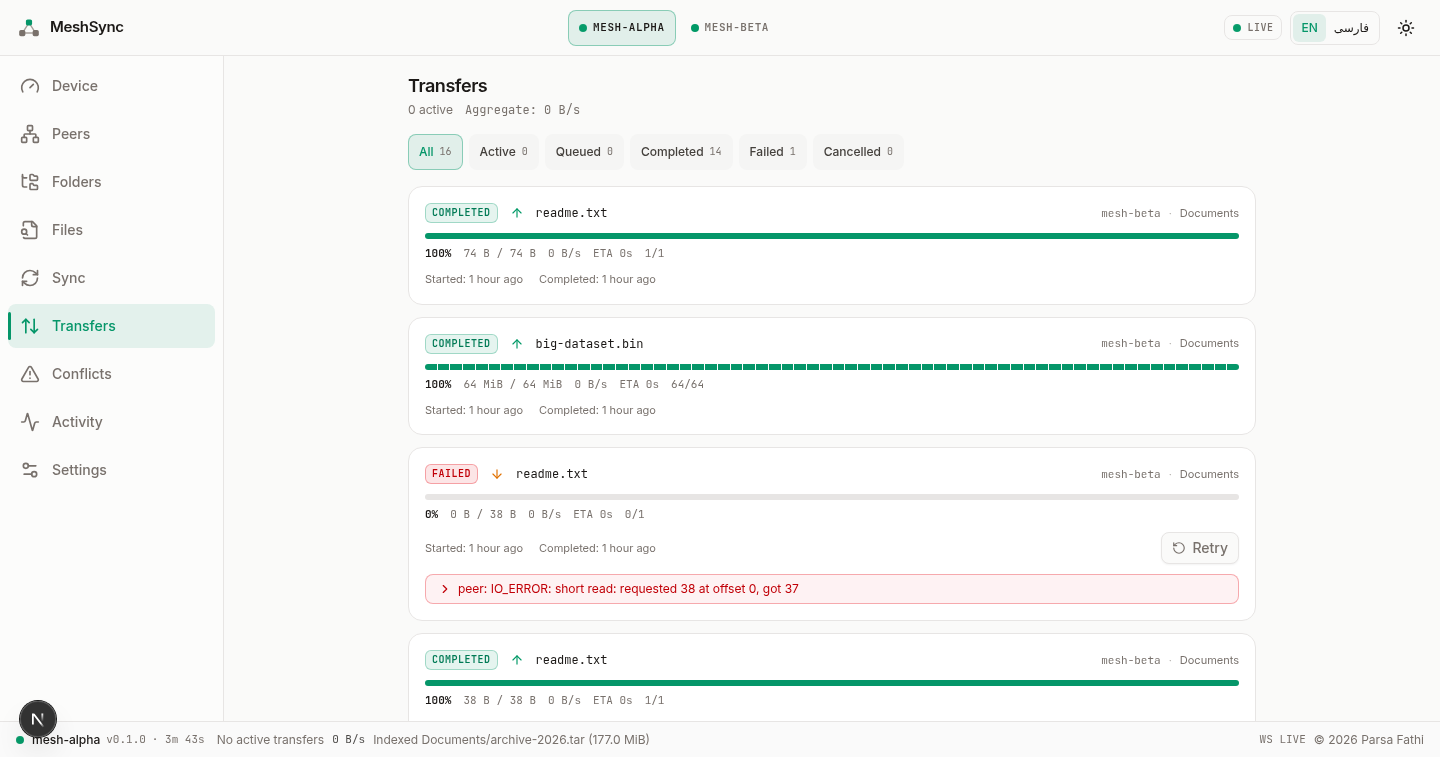
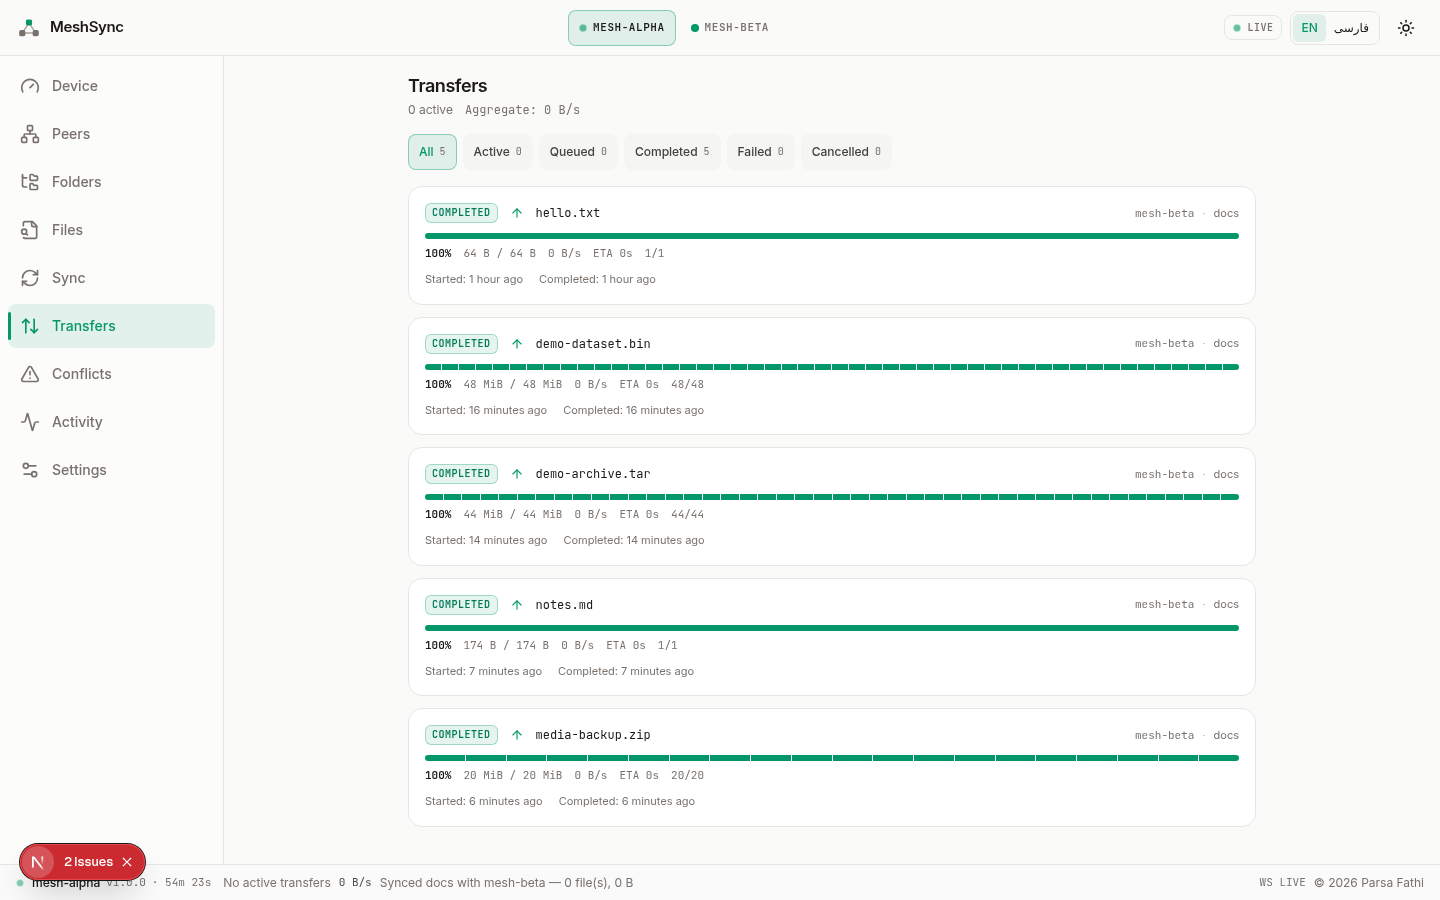
docs+native: demo GIF, refreshed screenshots, missing C++ test suite
Screenshots & demo:
- docs/assets/screens/demo-sync.gif — 46s animated end-to-end demo (plan,
  live chunked transfer with progress + throughput graph, synced state)
  captured from a real two-agent session over the gateway.
- All 12 console screenshots re-captured against the v1.0.0 agents (two
  trusted peers, 5-file folder with 64 B-48 MiB real transfer history, an
  open hello.txt conflict, supervisor respawn after a deliberate kill);
  added 13-settings-en.png. Per-shot descriptions rewritten in the folder
  README. Root README gains an 'At a glance' section embedding the GIF and
  a stills gallery; QUICKSTART embeds the GIF up front.

Native engine:
- tests/test_main.cpp was referenced by the Makefile 'test' target but
  never landed — 'make test' failed with 'No rule to make target'. Added
  the full suite (170 checks): SHA-256 NIST vectors incl. the 1M-'a'
  multi-block case and streaming/reuse, JSON parse/serialize round-trips
  with escapes and rejections, chunker layouts and boundaries, FileReader
  EOF/seek/move semantics, FileHasher whole/range with multi-buffer
  streaming, per-chunk digest equivalence, IntegrityVerifier mismatch and
  case-insensitive comparison, FileScanner tree/symlink/sort behavior,
  and an integration test driving the real worker binary over its
  JSON-lines protocol (happy paths, typed errors, CRLF tolerance,
  clean quit).
- file_scanner.hpp doc aligned with the actual (and tested) behavior:
[…]

diff --git a/native/cpp/include/meshsync/file_scanner.hpp b/native/cpp/include/meshsync/file_scanner.hpp
@@ -1,9 +1,9 @@
 // MeshSync native engine — recursive directory scanner.
 //
-// Walks a directory tree and reports every entry's path (relative to the
-// root), size and mtime in milliseconds since the epoch. Symlinks are
-// reported as such (never followed); unreadable subtrees surface as an
-// error.
+// Walks a directory tree and reports every regular file and directory with
+// its path (relative to the root), size and mtime in milliseconds since the
+// epoch. Symlinks are neither followed nor reported — a sync set never
+// includes an indirect entry; unreadable subtrees surface as an error.
 #pragma once
 
 #include <cstdint>

diff --git a/docs/assets/screens/README.md b/docs/assets/screens/README.md
@@ -1,46 +1,34 @@
-# Web console screenshots
+# Web console screenshots & demo GIF
 
-12 PNG screenshots of the MeshSync web console (v1.0.0), all captured from the
-running application during the live two-agent demo described in the root
-`README.md`: `mesh-alpha` (127.0.0.1:3040/4040) and `mesh-beta`
-(127.0.0.1:3041/4041) as trusted peers with a shared `Documents` folder and a
-real transfer/conflict/event history. Nothing is mocked: every value visible
-in the shots — peer IDs, SHA-256 fingerprints, byte counts, progress, errors —
-comes from the actual agents and the C++ native hashing worker
-(`cpp-worker-1.0.0`, agent v0.1.0 at capture time).
+13 PNG screenshots and one animated GIF of the MeshSync web console (v1.0.0),
+all captured from the running application during a live two-agent session:
+`mesh-alpha` (API 127.0.0.1:3040, peer 4040) and `mesh-beta` (API 3041, peer
+4041) as trusted peers over the real peer protocol, with a shared `docs`
+folder, real transfers (64 B up to 48 MiB), a deliberately created conflict,
+and the C++20 hashing worker active (`cpp-worker-1.0.0`). Nothing is mocked:
+every value visible — peer IDs, SHA-256 hashes, byte counts, percentages,
+speed graphs, errors — comes from the actual agents.
 
-Capture context: console served through the Caddy gateway at
-`http://localhost:81/` (gateway → Next.js console → agent APIs), desktop
-viewport 1440×900 except `10-mobile-fa-rtl.png` at 390×844.
+Capture context: console served through the deployment gateway at
+`http://localhost:81/` (gateway → Next.js console → agent REST/WS APIs),
+desktop viewport 1440×900 except `10-mobile-fa-rtl.png` at 390×844. The
+transfer in `06-transfer-active-en.png` and the GIF ran with a deliberate
+3 000 000 B/s bandwidth cap (visible in `13-settings-en.png`) so progress is
+observable; production default is unlimited.
 
 | File | What it shows |
 | --- | --- |
-| `01-device-en-light.png` | Device workspace, English, light theme — live stats from mesh-alpha including the active C++ native engine (`cpp-worker-1.0.0`), identity, ports (3040/4040) and folder/file/peer counters. |
-| `02-peers-fa-rtl.png` | Peers workspace, Persian, RTL layout — trusted peer mesh-beta (peer ID `ec365de7ff166c54`, agent v0.1.0) with the two-node mesh view and peer detail card. |
-| `03-folders-en-light.png` | Folders workspace, English, light theme — the shared Documents folder as indexed at capture time (7 files, 320 MiB) with its sync state against mesh-beta. |
-| `04-files-en-light.png` | Files workspace, English, light theme — Documents file browser listing the synced files (readme.txt, notes.txt, quarterly-report.txt, demo-from-web.txt, big-dataset.bin at 64 MiB and 100% synced). |
-| `05-sync-plan-en.png` | Sync workspace, English, light theme — a computed sync plan for Documents with PUSH actions against mesh-beta (e.g. archive-2026.tar, 256 MiB) before execution. |
-| `06-transfer-active-en.png` | Transfers workspace, English, light theme — two concurrent live transfers with real in-flight progress (e.g. video-archive.tar at 36 MiB / 512 MiB, ~2.5 MiB/s). |
-| `07-transfers-history-en.png` | Transfers workspace, English, light theme — completed transfer history at 100% progress (readme.txt 74 B through video-archive.tar 512 MiB, 512/512 chunks) plus the FAILED readme.txt row with its peer I/O error. |
-| `08-conflict-open-en.png` | Conflicts workspace, English, light theme — Resolved history expanded; quarterly-report.txt selected, showing both versions (local 58 B / remote 74 B, 16 B difference), truncated SHA-256 hashes, the four resolution options, and the KEEP_LOCAL resolution that was applied. |
-| `09-activity-fa.png` | Activity workspace, Persian, RTL layout — the live event stream (pairing, trust, transfer and sync events for files such as archive-2026.tar). |
-| `10-mobile-fa-rtl.png` | Mobile viewport (390×844), Persian, RTL — Folders workspace on the mesh-beta agent with the "افزودن پوشه اشتراکی" (add shared folder) action, showing the responsive layout. |
+| `demo-sync.gif` | 46-second animated end-to-end demo: a 44 MiB `demo-archive.tar` is created on mesh-alpha, shows as `PENDING` in Files; the Sync workspace computes the plan (1 PUSH, 2 UNCHANGED); Execute plan starts the transfer; the Transfers workspace shows the live progress bar and throughput graph climbing 34% → 79% → 100%; back in Files everything is `SYNCED`. |
+| `01-device-en-light.png` | Device workspace, English, light theme — mesh-alpha identity (v1.0.0, linux/amd64, API 3040 · PEER 4040, native engine `cpp-worker-1.0.0`) and live stats: 1 shared folder, 5 files, 112 MiB indexed, 1 trusted peer online, 1 open conflict, last sync minutes ago. Status pill: LIVE. |
+| `02-peers-fa-rtl.png` | Peers workspace, Persian, RTL layout — the two-node mesh view (mesh-alpha + mesh-beta) and the trusted-peer card for mesh-beta (TRUSTED, online, v1.0.0) with actions (revoke, copy address, remove). |
+| `03-folders-en-light.png` | Folders workspace, English, light theme — the shared `docs` folder (4 files, 92 MiB at capture time) with its index state and rescan action. |
+| `04-files-en-light.png` | Files workspace, English, light theme — the file browser for `docs` with `notes.md` selected (174 B, PENDING/LOCAL_ONLY): detail panel shows the truncated SHA-256 content hash and the 1/1 chunk map computed by the native worker. |
+| `05-sync-plan-en.png` | Sync workspace, English, light theme — a computed plan against mesh-beta for `docs`: summary TOTAL 4 · PUSH 1 · CONFLICT 1 · UNCHANGED 2, with the action table (notes.md → PUSH, hello.txt → CONFLICT) and the session history of previous completed syncs. |
+| `06-transfer-active-en.png` | Transfers workspace, English, light theme — an in-flight transfer: `media-backup.zip` at 85% with progress bar, live speed graph, and the four previously completed transfers below. Status pill: LIVE. |
+| `07-transfers-history-en.png` | Transfers workspace, English, light theme — completed history, 5 transfers at 100%: hello.txt (64 B), demo-dataset.bin (48 MiB), demo-archive.tar (44 MiB), notes.md, media-backup.zip — each with peer, direction, timing and chunk counts. |
+| `08-conflict-open-en.png` | Conflicts workspace, English, light theme — an open conflict on `hello.txt` (edited on both agents at once): local 71 B vs remote 79 B (8 B difference), truncated SHA-256 for both sides, and the resolution options. |
+| `09-activity-fa.png` | Activity workspace, Persian, RTL layout — the live event stream over WebSocket: pairing/trust events, transfer progress (media-backup.zip at 99%) and sync-session events, newest first. |
+| `10-mobile-fa-rtl.png` | Mobile viewport (390×844), Persian, RTL — the Folders workspace on a phone-width layout: `docs` with 5 files / 112 MiB, workspace navigation collapsed into the top area. |
 | `11-device-dark-en.png` | Device workspace, English, dark theme — the same mesh-alpha identity and live-stat view in dark mode. |
-| `12-error-recovery-en.png` | Device workspace, English — the reconnect banner ("Agent unreachable at port 3041 — reconnecting") with the mesh-beta agent tab greyed out, captured while mesh-beta was deliberately stopped to demonstrate self-healing. |
-
-Notes:
-
-- `06-transfer-active-en.png` was captured mid-sync with two transfers running
-  simultaneously; the progress and throughput numbers are real measurements
-  from the transfer manager, not staged values.
-- `12-error-recovery-en.png` is the failure-path demo: an agent was stopped on
-  purpose, the console surfaced the unreachable/reconnecting state, and it
-  returned to the live stream once the agent self-healed (agents are
-  supervised and restarted by the console's agent supervisor).
-- The console was always accessed through the Caddy gateway on port 81;
-  direct access to the Next.js dev server on :3000 does not route agent API
-  calls and is not representative.
-
-All shots are PNG; the 11 desktop shots are 1440×900 and the mobile shot is
-390×844. Screenshots are checked in as documentation assets and are not
-regenerated by CI.
+| `12-error-recovery-en.png` | Error/recovery state, English — mesh-beta was deliberately stopped: the reconnect banner ("Agent unreachable at port 3041 — reconnecting…"), RECONNECTING status pill, and the red unreachable panel in Folders. The in-server supervisor re-spawned the agent seconds later and the console reconnected on its own. |
+| `13-settings-en.png` | Settings workspace, English, light theme — live editable agent settings: device name, discovery, hidden-file policy, chunk size, concurrency and the bandwidth cap (2930 KiB/s) applied during capture. |

diff --git a/README.md b/README.md
@@ -30,6 +30,24 @@ Not a fit: devices that can never reach each other (MeshSync is LAN-only —
 there is no relay and no NAT traversal), and multi-user sharing with
 per-file ACLs (the trust model is per-device and single-user oriented).
 
+## At a glance
+
+A 44 MiB file appearing on one device, planned, chunk-transferred at a
+capped 3 MB/s, and confirmed synced — all through the web console:
+
+![MeshSync console demo: plan, transfer progress, synced](docs/assets/screens/demo-sync.gif)
+
+A few stills (all real sessions, both languages, light/dark, mobile):
+
+| | |
+|---|---|
+| ![Device workspace](docs/assets/screens/01-device-en-light.png) | ![Files with detail](docs/assets/screens/04-files-en-light.png) |
+| ![Sync plan](docs/assets/screens/05-sync-plan-en.png) | ![Active transfer](docs/assets/screens/06-transfer-active-en.png) |
+| ![Conflict resolution](docs/assets/screens/08-conflict-open-en.png) | ![Persian RTL activity](docs/assets/screens/09-activity-fa.png) |
+
+Full gallery with per-shot descriptions:
+[docs/assets/screens/](docs/assets/screens/README.md).
+
 ## How it works
 
 ```

diff --git a/CHANGELOG.md b/CHANGELOG.md
@@ -4,6 +4,23 @@ All notable changes to MeshSync are documented here. Format follows
 [Keep a Changelog](https://keepachangelog.com/en/1.1.0/); versions follow
 semantic versioning. Release dates are filled in when each tag is cut.
 
+## [1.0.1] — docs refresh
+
+### Added
+- `docs/assets/screens/demo-sync.gif` — 46-second animated end-to-end demo
+  (plan → live chunked transfer with progress and throughput graph → synced),
+  captured from a real two-agent session.
+- `13-settings-en.png` — Settings workspace screenshot (live editable agent
+  configuration).
+
+### Changed
+- All console screenshots re-captured against the final v1.0.0 agents
+  (two trusted peers, 5-file shared folder, real 64 B–48 MiB transfer
+  history, an open conflict, and an error/recovery shot with the supervisor
+  respawn), replacing the earlier v0.1.0-era captures.
+- Root `README.md` gained an "At a glance" section embedding the demo GIF
+  and a stills gallery; `docs/QUICKSTART.md` embeds the GIF up front.
+
 ## [1.0.0] — stable
 
 ### Added

diff --git a/docs/QUICKSTART.md b/docs/QUICKSTART.md
@@ -4,6 +4,11 @@ A five-minute, two-device demo on one machine. Two agents, real pairing,
 real chunked transfer over TLS. Prerequisites: Go 1.25+ built agent; a
 second terminal; curl.
 
+What the whole flow looks like in the web console (plan → live transfer
+progress → synced):
+
+![MeshSync console demo](assets/screens/demo-sync.gif)
+
 ```sh
 # 0. build the agent (once)
 cd agent
